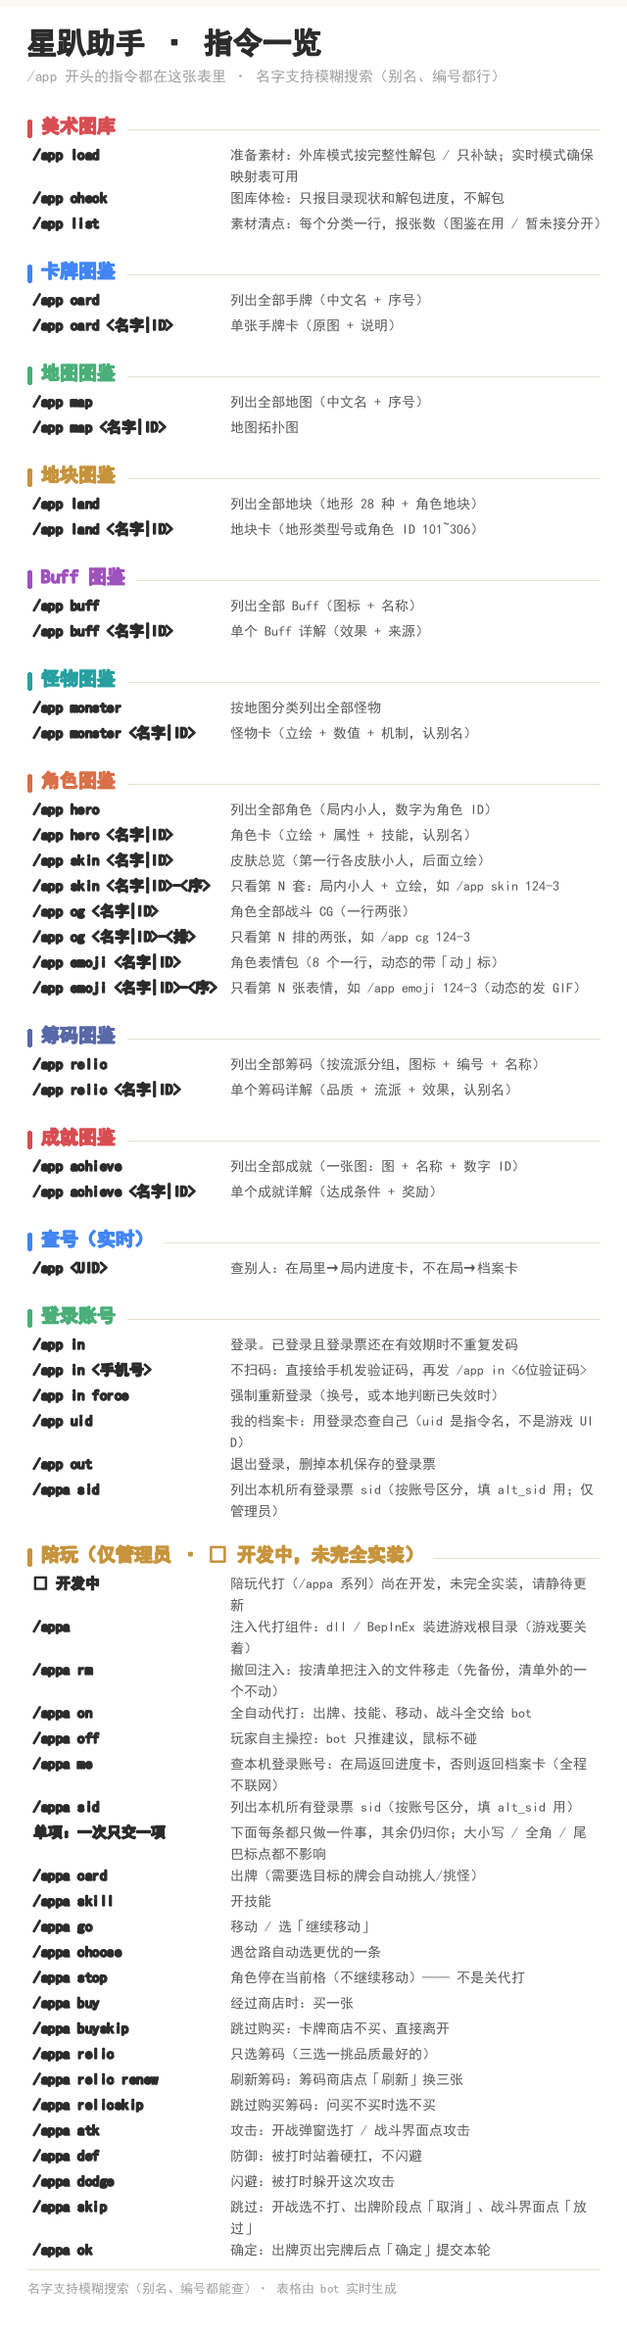
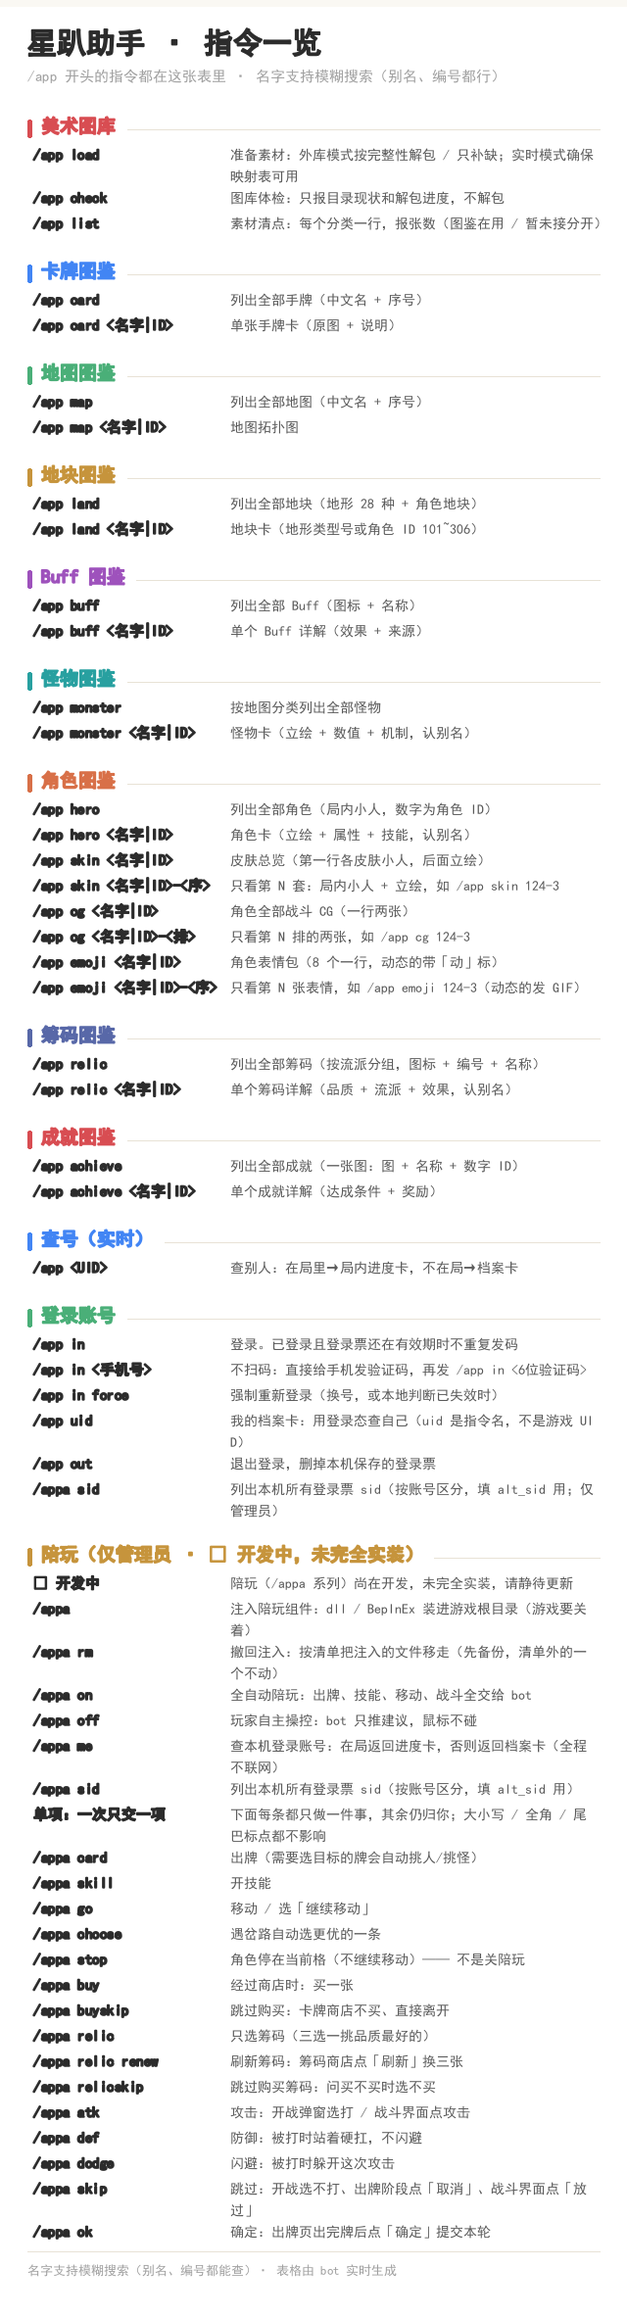
docs: 术语统一——「代打」全部改为「陪玩」（含说明/配置/建议卡/日志/注入清单描述）

diff --git a/main.py b/main.py
@@ -1,9 +1,9 @@
 """星趴（Astral Party）助手插件入口。
 
 知识库（kb/）、决策逻辑（pkg/）与陪玩引擎（pilot/）都随插件一起分发，
-插件负责把它们变成 QQ 里的图文图鉴（/app）与代打操控（/appa）。
+插件负责把它们变成 QQ 里的图文图鉴（/app）与陪玩操控（/appa）。
 
-代打三种模式：全自动（/appa on）、半自动（/appa card 等）、玩家自主操控（/appa off）。
+陪玩三种模式：全自动（/appa on）、半自动（/appa card 等）、玩家自主操控（/appa off）。
 """
 
 from __future__ import annotations
@@ -144,10 +144,10 @@ HELP_SECTIONS = [
         ("/appa sid", "列出本机所有登录票 sid（按账号区分，填 alt_sid 用；仅管理员）"),
     ]),
     ("🎮", "陪玩（仅管理员 · 🚧 开发中，未完全实装）", [
-        ("🚧 开发中", "陪玩代打（/appa 系列）尚在开发，未完全实装，请静待更新"),
-        ("/appa", "注入代打组件：dll / BepInEx 装进游戏根目录（游戏要关着）"),
+        ("🚧 开发中", "陪玩（/appa 系列）尚在开发，未完全实装，请静待更新"),
+        ("/appa", "注入陪玩组件：dll / BepInEx 装进游戏根目录（游戏要关着）"),
         ("/appa rm", "撤回注入：按清单把注入的文件移走（先备份，清单外的一个不动）"),
-        ("/appa on", "全自动代打：出牌、技能、移动、战斗全交给 bot"),
+        ("/appa on", "全自动陪玩：出牌、技能、移动、战斗全交给 bot"),
         ("/appa off", "玩家自主操控：bot 只推建议，鼠标不碰"),
         ("/appa me", "查本机登录账号：在局返回进度卡，否则返回档案卡（全程不联网）"),
         ("/appa sid", "列出本机所有登录票 sid（按账号区分，填 alt_sid 用）"),
@@ -156,7 +156,7 @@ HELP_SECTIONS = [
         ("/appa skill", "开技能"),
         ("/appa go", "移动 / 选「继续移动」"),
         ("/appa choose", "遇岔路自动选更优的一条"),
-        ("/appa stop", "角色停在当前格（不继续移动）—— 不是关代打"),
+        ("/appa stop", "角色停在当前格（不继续移动）—— 不是关陪玩"),
         ("/appa buy", "经过商店时：买一张"),
         ("/appa buyskip", "跳过购买：卡牌商店不买、直接离开"),
         ("/appa relic", "只选筹码（三选一挑品质最好的）"),
@@ -551,7 +551,7 @@ class AstralPartyPilotPlugin(Star):
             "查别人：/app <UID>（例如 /app 2425110）\n"
             "看本机（局内卡 / 档案卡）：/app\n"
             "登录账号看档案：/app in · /app uid · /app out\n"
-            "代打请用 /appa（/appa on 全自动 · /appa card 半自动 · /appa off 交回自己）\n"
+            "陪玩请用 /appa（/appa on 全自动 · /appa card 半自动 · /appa off 交回自己）\n"
             "发 /app help 看完整说明"
         )
 
@@ -1789,13 +1789,13 @@ class AstralPartyPilotPlugin(Star):
     # ------------------------------------------------------------ /appa ----
     @filter.command("appa", alias={"APPA", "Appa"})
     async def appa(self, event: AstrMessageEvent):
-        """代打总入口：/appa 查状态，/appa on 全自动，/appa <项> 只做那一件事。
+        """陪玩总入口：/appa 查状态，/appa on 全自动，/appa <项> 只做那一件事。
 
-        /appa 整套（含状态查询和所有代打开关）都只允许管理员用：它会动 bot 这台机器
+        /appa 整套（含状态查询和所有陪玩开关）都只允许管理员用：它会动 bot 这台机器
         上的游戏，不能让别人随手开关。
         """
         if not self._is_admin(event):
-            yield event.plain_result(self._deny_text("/appa 代打"))
+            yield event.plain_result(self._deny_text("/appa 陪玩"))
             return
         raw = (event.message_str or "").strip()
         words = re.sub(r"^[/／]?\s*appa", "", raw, flags=re.I).strip().split()
@@ -1838,7 +1838,7 @@ class AstralPartyPilotPlugin(Star):
                 f"「{sub}」不是 /appa 的子命令呢～可用的有：\n"
                 "· 开关：on（全自动）· off（自主操控）· me（查本机）· sid（登录票）\n"
                 "· 单项：card / skill / go / choose / stop / relic / buy / buyskip / relicskip / atk / def / dodge / skip / ok\n"
-                "· 不带参数：把代打组件注入游戏根目录（游戏要关着）\n"
+                "· 不带参数：把陪玩组件注入游戏根目录（游戏要关着）\n"
                 "· rm：按注入清单撤回注入的文件（先备份，清单外的不动）\n"
                 "完整说明发 /app help 看「陪玩」那一节")
             return
@@ -1871,7 +1871,7 @@ class AstralPartyPilotPlugin(Star):
 
     @staticmethod
     def _pilot_tag(cur: dict) -> str:
-        """代打模式的短名字（卡面用，不带 emoji）。"""
+        """陪玩模式的短名字（卡面用，不带 emoji）。"""
         if not cur.get("running"):
             return "没开"
         granted = set(cur.get("allow") or [])
@@ -1880,16 +1880,16 @@ class AstralPartyPilotPlugin(Star):
         return "模式② 半自动" if granted else "模式③ 玩家自主"
 
     def _pilot_line(self, cur: dict, allow_cn: str) -> str:
-        """代打状态压成一行（跟在局内卡后面）。"""
+        """陪玩状态压成一行（跟在局内卡后面）。"""
         if not cur.get("running"):
-            return "🤖 代打：没开 —— 想全自动发 /appa on；自己打就无视这句"
+            return "🤖 陪玩：没开 —— 想全自动发 /appa on；自己打就无视这句"
         tag = self._pilot_tag(cur)
         pid = cur.get("pid")
         tail = f"（pid {pid}）" if pid else ""
-        return f"🤖 代打：{tag}{tail} ｜ 授权：{allow_cn or '无'}"
+        return f"🤖 陪玩：{tag}{tail} ｜ 授权：{allow_cn or '无'}"
 
     async def _appa_deploy(self, event: AstrMessageEvent):
-        """/appa：把代打必需的程序注入游戏根目录。
+        """/appa：把陪玩必需的程序注入游戏根目录。
 
         装的是 winhttp.dll、doorstop_config.ini、.doorstop_version，以及整棵 BepInEx
         （插件本体 AstralProbe.dll 就在 BepInEx/plugins 里）。只做部署不碰对局状态：
@@ -2105,7 +2105,7 @@ class AstralPartyPilotPlugin(Star):
         """/appa me：查本机登录账号 —— 在局出局内卡，不在局出档案卡。
 
         在局内（state.json 20 秒内还在更新）→ 局内卡图片（我的角色 / 血量 / 金币 /
-        所在格）+ 一行代打状态；不在局 → 用本地存的档案出档案卡（没存过就用本机
+        所在格）+ 一行陪玩状态；不在局 → 用本地存的档案出档案卡（没存过就用本机
         state.json / accounts.json 现拼一张，战绩那几格留「—」）。
         全程不连服务器 —— 联机会把大厅里正在开着的号顶下线。
         """
@@ -2403,7 +2403,7 @@ class AstralPartyPilotPlugin(Star):
         if act == "choose":
             return head + (why or "没有分岔要选")
         if act == "stop":
-            # stop = 让角色停在当前格（停靠站/继续移动那条），不是关代打
+            # stop = 让角色停在当前格（停靠站/继续移动那条），不是关陪玩
             if stage not in ("move", "choose"):
                 return head + "现在不在移动/选路阶段"
             return head + _short(why or "没停在当前格")
@@ -2412,7 +2412,7 @@ class AstralPartyPilotPlugin(Star):
     async def _appa_off(self, event: AstrMessageEvent):
         msg = await asyncio.to_thread(CO.stop, self.config)
         self._stop_push()
-        yield event.plain_result("已关闭代打")
+        yield event.plain_result("已关闭陪玩")
 
     def _ensure_push(self, event: AstrMessageEvent) -> None:
         umo = getattr(event, "unified_msg_origin", "") or ""

diff --git a/pkg/coachcard.py b/pkg/coachcard.py
@@ -13,7 +13,7 @@ from .artrender import Blocks, _draw_chips, _open
 from .livecard import BLUE, GOLD, GREEN, W, PAD, _chibi, _hero_name
 
 # 三种操控模式按「实际交给 bot 多少」判定，不看引擎内部 mode：
-#   全给   = 全自动代打   给一部分 = 半自动代打   一个都没给 = 玩家自己操控
+#   全给   = 全自动陪玩   给一部分 = 半自动陪玩   一个都没给 = 玩家自己操控
 ACT_CN = {"card": "出牌", "skill": "开技能", "go": "移动"}
 CORE_ACTS = ("card", "skill", "go")
 
@@ -40,7 +40,7 @@ def render_advice(d: dict, out_path: str) -> str:
     granted = set(d.get("allow") or [])
     allow = [a for a in CORE_ACTS if a in granted]
     auto = mode == "auto" or (granted and all(a in granted for a in CORE_ACTS))
-    badges = ["全自动代打" if auto else ("半自动代打" if allow else "玩家自主操控")]
+    badges = ["全自动陪玩" if auto else ("半自动陪玩" if allow else "玩家自主操控")]
     if not auto and allow:
         badges.append("代动 " + "/".join(ACT_CN[a] for a in allow))
     if d.get("dry"):
@@ -93,9 +93,9 @@ def render_advice(d: dict, out_path: str) -> str:
                _font(14), MUTE, line_h=24, before=10)
 
     if auto:
-        note = "全自动代打：bot 自己出牌 / 开技能 / 推进"
+        note = "全自动陪玩：bot 自己出牌 / 开技能 / 推进"
     elif allow:
-        note = "半自动代打：只代动 " + "、".join(ACT_CN[a] for a in allow) + "，其余你自己点"
+        note = "半自动陪玩：只替你做 " + "、".join(ACT_CN[a] for a in allow) + "，其余你自己点"
     else:
         note = "玩家自主操控：bot 只看不动，只推建议"
     b.text(f"{note} · 数据时间 {d.get('ts') or ''}", _font(13), MUTE, line_h=22, before=10)

diff --git a/pilot/coach.py b/pilot/coach.py
@@ -11,7 +11,7 @@
 
 两种模式：
     pilot  辅助：轮到我 → 算建议 → 写 coach.json；**只动手被授权的动作**
-    auto   代打：三类动作全授权，轮到我 → 算建议 → 真拖牌 / 开技能 / 点移动键
+    auto   陪玩：三类动作全授权，轮到我 → 算建议 → 真拖牌 / 开技能 / 点移动键
 
 授权粒度（--allow / 控制文件 coach_ctl.json，对应 /appa 各子命令）：
     card    出牌（只出无需选目标的牌）
@@ -1716,7 +1716,7 @@ class Coach:
             try:
                 payload = self.tick(st)
             except AP.IdentityError as e:
-                # 认不出自己就绝不动作 —— 宁可挂机，也不能拿别人的数据代打
+                # 认不出自己就绝不动作 —— 宁可挂机，也不能拿别人的数据替你操作
                 self.say(f"[身份校验失败] {e} → 停手")
                 payload = {"ts": time.strftime("%H:%M:%S"), "pid": os.getpid(),
                            "mode": self.mode, "in_match": True, "my_turn": False,

diff --git a/pkg/gen_manifest.py b/pkg/gen_manifest.py
@@ -35,7 +35,7 @@ GROUP_DESC = {
     "bepinex-core": "BepInEx 本体（预加载、运行时引导）",
     "bepinex-interop": "IL2CPP 程序集互操作层（66 MB，可缺席：BepInEx 首次启动会按游戏 global-metadata 现生成）",
     "bepinex-unity": "Unity 引用库（插件编译/运行时的程序集引用）",
-    "plugin": "代打插件本体 AstralProbe.dll",
+    "plugin": "陪玩插件本体 AstralProbe.dll",
     "config": "BepInEx 配置",
     "misc": "其他随包文件",
 }
@@ -144,7 +144,7 @@ def main(argv):
         from . import deploy
         src = deploy.src_dir({})
     if not src or not os.path.isdir(src):
-        print("找不到代打文件源目录，请传路径")
+        print("找不到陪玩文件源目录，请传路径")
         return 1
     data = build(src)
     with open(MANIFEST, "w", encoding="utf-8") as f:

diff --git a/pkg/deploy.py b/pkg/deploy.py
@@ -1,5 +1,5 @@
 # -*- coding: utf-8 -*-
-"""把代打必需的文件注入游戏根目录（`/appa` 的实现）。
+"""把陪玩必需的文件注入游戏根目录（`/appa` 的实现）。
 
 注入清单一律以插件内的 `pkg/inject_manifest.json` 为准（`python -m pkg.gen_manifest`
 生成），里面逐条写着相对路径、大小、SHA256、分组和用途：
@@ -89,7 +89,7 @@ EXES = ("AstralParty_CN.exe", "AstralParty_INT.exe")
 
 
 def src_dir(cfg: dict | None = None) -> str:
-    """代打文件源目录：配置 deploy_src 优先，其次仓库默认位置，都没有返回空串。"""
+    """陪玩文件源目录：配置 deploy_src 优先，其次仓库默认位置，都没有返回空串。"""
     v = ""
     if isinstance(cfg, dict):
         v = str(cfg.get("deploy_src") or "").strip()

diff --git a/pilot/autopilot.py b/pilot/autopilot.py
@@ -1,6 +1,6 @@
 # -*- coding: utf-8 -*-
 """
-AstralPartyPilot · 自动代打
+AstralPartyPilot · 自动陪玩
 
 监视游戏目录下的 state.json，轮到自己时决策并下发指令。
 指令写入 cmd.txt，由 BepInEx 插件每帧消费。
@@ -831,7 +831,7 @@ def main():
         try:
             me = me_of(st)
         except IdentityError as e:
-            # 读不准自己就什么都不做 —— 宁可全程挂机，也不能拿别人的数据代打
+            # 读不准自己就什么都不做 —— 宁可全程挂机，也不能拿别人的数据替你操作
             say(f"[身份校验失败] {e} → 停手，不下发任何指令")
             if args.once:
                 return

diff --git a/README.md b/README.md
@@ -13,7 +13,7 @@
 游戏对局数据解析与自动化操作助手，围绕「读局 → 判断 → 执行」三段闭环构建：从游戏资源与运行时状态中取回地图、手牌与对局进度，用确定性规则算出当前最优动作，再以模拟鼠标输入交给游戏执行。
 
 > [!IMPORTANT]
-> **`/appa` 系列（陪玩 / 代打操控）尚在开发中，未完全实装**：
+> **`/appa` 系列（陪玩操控）尚在开发中，未完全实装**：
 > 指令可能随版本变动甚至临时失效，请以实际体验为准、静待更新。
 > 图鉴类（`/app`）正常调用，不受影响。
 
@@ -26,7 +26,7 @@
 - **成就图鉴**：139 成就按数字 ID 排序，全成就图鉴以及成就达成条件与奖励
 - **实时查号**：`/app <UID>` 查别人（需要一个小号），在局内显示对局进度，不在局显示档案卡（等级 / 胜率 / 获赞 / 最近战绩）
 - **扫码登录**：`/app in` 手机扫码feimo通行证登录；登录后 `/app uid` 返回完整档案卡（成就总数、全部角色、角色场次），`/app out` 退出并删除本机登录票
-- **陪玩引擎**（⚠ 开发中）：寻路、手牌、筹码等逻辑；三种操控模式 —— **全自动代打**（`/appa on`）、**半自动代打**（如`/appa card` 临时调试特定逻辑）、**玩家自主操控**（`/appa off`）
+- **陪玩引擎**（⚠ 开发中）：寻路、手牌、筹码等逻辑；三种操控模式 —— **全自动陪玩**（`/appa on`）、**半自动陪玩**（如`/appa card` 临时调试特定逻辑）、**玩家自主操控**（`/appa off`）
 - **知识库**：手牌 73 张、Buff 323 条、筹码 92 种（含各地图专属）、成就 139 个、怪物 70 种、角色 36 位、地块 28 种、地图拓扑 21 张等，随插件分发、离线可查
 
 ---
@@ -68,9 +68,9 @@
 | `/app in <手机号>`         | 扫码失败或网页访问失败，直接给该手机号发验证码（`/app in <6位验证码>` 完成登录）                |
 | `/app uid`              | 我的档案卡：用登录态查自己（`uid` 是指令名，不是游戏 UID）                             |
 | `/app out`              | 退出登录，删掉本机保存的登录票                                                |
-| `/appa`                 | 注入代打组件：`dll / BepInEx` 装进游戏根目录（请先关闭游戏） |
+| `/appa`                 | 注入陪玩组件：`dll / BepInEx` 装进游戏根目录（请先关闭游戏） |
 | `/appa rm`              | 撤回注入：按注入清单移除所有注入的文件（备份到游戏根目录 `_pilot_backup\uninstall-时间戳\`） |
-| `/appa on`              | 全自动代打：出牌、技能、移动、战斗全交给 bot |
+| `/appa on`              | 全自动陪玩：出牌、技能、移动、战斗全交给 bot |
 | `/appa off`             | 玩家自主操控：bot 只推建议，鼠标不碰 |
 | `/appa me`              | 查本机登录账号：在局返回进度卡，否则返回档案卡 |
 | `/appa sid`             | 列出本机所有登录票 `sid`（按账号区分，填 `alt_sid` 用，仅管理员） |
@@ -78,7 +78,7 @@
 | `/appa skill`           | 开技能 |
 | `/appa go`              | 移动 / 选「继续移动」 |
 | `/appa choose`          | 岔路自动选更优的一条 |
-| `/appa stop`            | 角色停在当前格、不继续移动（**不是关代打**，关代打发 `/appa off`） |
+| `/appa stop`            | 角色停在当前格、不继续移动（**不是关陪玩**，关陪玩发 `/appa off`） |
 | `/appa buy`             | 经过商店时：买一张 |
 | `/appa buyskip`         | 跳过购买：卡牌商店不买、直接离开 |
 | `/appa relic`           | 选筹码（三选一挑品质最好的） |
@@ -203,7 +203,7 @@
 | `live_client_ver` | 查号客户端版本号，留空自动读，一般不用填                                                                     |
 | `alt_sid`         | 查别人时用的小号登录票 sid（**推荐填**，取法：发 `/appa sid` 复制`sid`粘贴；留空＝默认用本机第一条登录票，见下文「查询账号`/app <UID>`」） |
 | `deploy_src`      | `/appa` 注入源目录，留空＝用插件自带的 `pkg/payload`                                                        |
-| `pilot_prefer`    | 代打默认倾向（发育 / 进攻 / 防守）                                                                     |
+| `pilot_prefer`    | 陪玩默认倾向（发育 / 进攻 / 防守）                                                                     |
 | `login_port`      | `/app in` 登录网页端口（默认 0＝自动挑空闲端口；监听地址见 `login_lan`）                                             |
 | `login_lan`       | 允许局域网扫码，**默认关**。关＝只监听 `127.0.0.1`（端口不暴露，手机扫不到，改用 `/app in <手机号>`）；开＝监听 `0.0.0.0`，手机可扫码 |
 | `login_host`      | 二维码里用的主机地址，留空自动探测局域网 IP；有域名/端口映射才填                                                       |
@@ -328,4 +328,4 @@ logs/                 陪玩进程 pid、stdout、每日运行日志
 
 本项目仅供个人学习与研究使用，不得用于商业用途。请勿在联机对局中使用自动化功能影响其他玩家的游戏体验。游戏内容及相关素材的版权归其权利人所有；若权利人要求移除相关内容，请随时联系。
 
-`/appa`（注入 BepInEx / AstralProbe.dll 与自动代打）会修改游戏进程行为，**是否使用、是否符合游戏服务条款，需你自行确认并承担相应后果**；本项目不提供任何绕过反作弊、绕过检测或伪造客户端的能力，也不建议在排位/联机对局中使用自动代打。使用者应自行遵守《星引擎派对 / Astral Party》的用户协议与所在平台的规则。
+`/appa`（注入 BepInEx / AstralProbe.dll 与自动陪玩）会修改游戏进程行为，**是否使用、是否符合游戏服务条款，需你自行确认并承担相应后果**；本项目不提供任何绕过反作弊、绕过检测或伪造客户端的能力，也不建议在排位/联机对局中使用自动陪玩。使用者应自行遵守《星引擎派对 / Astral Party》的用户协议与所在平台的规则。

diff --git a/CHANGELOG.md b/CHANGELOG.md
@@ -21,8 +21,9 @@
 - **`/appa relicskip` 点了没反应**：`act.id` 实测在筹码三选一时是 **-1**，而引擎只认 `5211`/`5249`，于是整段什么都不做，插件 25 秒后才回「没有询问」。现在只要插件从协议读到 `act.relic.open` + `sn`，就当筹码三选一处理（不再依赖 `act.id`）。
 - 同时修了 `acted.kind` 的判定：`跳过购买筹码` 以前被关键词「筹码」误判成 `relic`，一次性授权永远收不回去 —— 现在 `跳过购买筹码`→`relicskip`、`离开商店`→`buyskip`、`选/买筹码`→`relic`。
 - `relicskip` 停在**三选一**时会明确说「三选一必须选一张，用 /appa relic」，不再笼统说「没有询问」。
-- **`/appa` 的回复改成「成功不出声、失败一句话」**：动作类指令做完不再回话；没做成只回一行（如 `❌ 出牌没做成：不在出牌阶段（空闲）`），不再带流程解释和建议。`/appa on` / `/appa off` 各回一行（`全自动已开` / `已关闭代打`）。
-- 修正 `/appa stop` 的说明：它是**让角色停在当前格**（停靠站的「停下」），不是关闭代打；关代打是 `/appa off`。
+- **`/appa` 的回复改成「成功不出声、失败一句话」**：动作类指令做完不再回话；没做成只回一行（如 `❌ 出牌没做成：不在出牌阶段（空闲）`），不再带流程解释和建议。`/appa on` / `/appa off` 各回一行（`全自动已开` / `已关闭陪玩`）。
+- 修正 `/appa stop` 的说明：它是**让角色停在当前格**（停靠站的「停下」），不是关闭陪玩；关陪玩是 `/appa off`。
+- 术语统一：全项目的「代打」改为「**陪玩**」（指令说明、配置项描述、建议卡、日志、README、攻略、注入清单描述），`/appa off` 的回执也随之变成「已关闭陪玩」。
 
 ## [2.4.9] - 2026-11-13
 

diff --git a/docs/攻略.md b/docs/攻略.md
@@ -220,7 +220,7 @@
 
 ---
 
-## 九、代打命令逻辑（/appa buy · atk · def · dodge · skip · relic）
+## 九、陪玩命令逻辑（/appa buy · atk · def · dodge · skip · relic）
 
 > **授权是叠加的**：`/appa card`、`/appa skill`、`/appa go` 连着发，三个授权会同时留着 ——
 > 一个回合本来就是 出牌 → 技能 → 移动。`/appa on` 才是全覆盖，`/appa off` 清空全部。
@@ -329,7 +329,7 @@
 - 2026-11-04：建立本文件。收录基础逻辑、筹码分系、角色定位表、必拿系、升星金币、买牌、战斗期望值、配队。
 - 2026-11-04：修正第七节 —— 筹码 id 即 relics.json 的 `no` 字段，星级在 player.star，两处都有现成来源。
 - 2026-11-04：新增第八节（战斗界面读数补充）——5.1 的判定式原本就有，是我临场没查攻略；本次只补充「❤/剑/蓝盾」读法与「8-8 不是防御值」。
-- 2026-11-04：新增第九节 —— 代打命令逻辑：buy（实测流程）、atk、skip、relic；atk/skip 细节标注待补。
+- 2026-11-04：新增第九节 —— 陪玩命令逻辑：buy（实测流程）、atk、skip、relic；atk/skip 细节标注待补。
 - 2026-11-04 更正：商店**没有刷新**功能，刷新只属于筹码三选一界面；9.1 的刷新步骤已删除。
 - 2026-11-04：补 5.4 卡牌费用表（效果牌 0 费、出牌无成本；10001–10011 费用；10011 限龙宫、10012/10013 真梦梓限定）。
 - 2026-11-04：5.4 费用表按 kb/cards.json 补全 10010–10013；10011 口述 0 费与卡库 2 费冲突，已标注待定。
